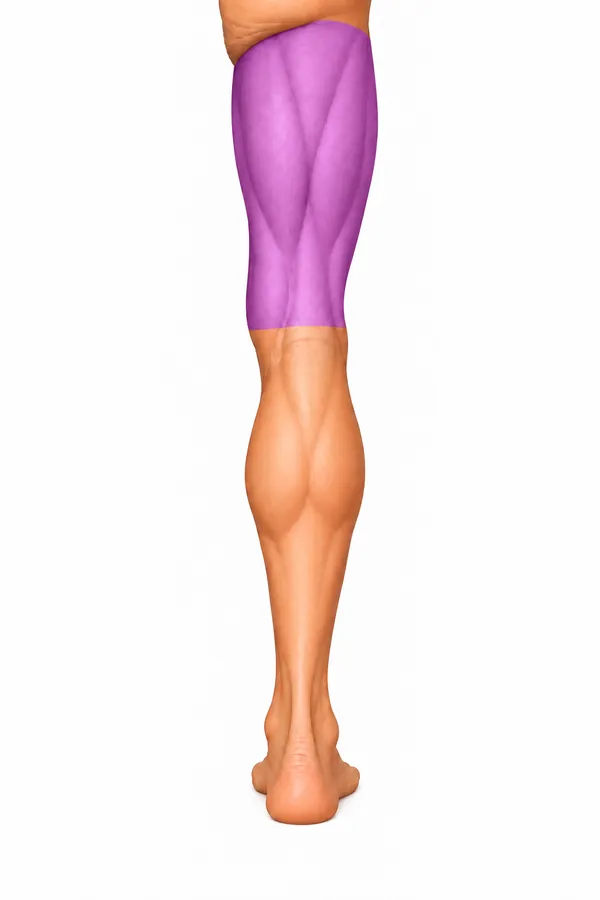
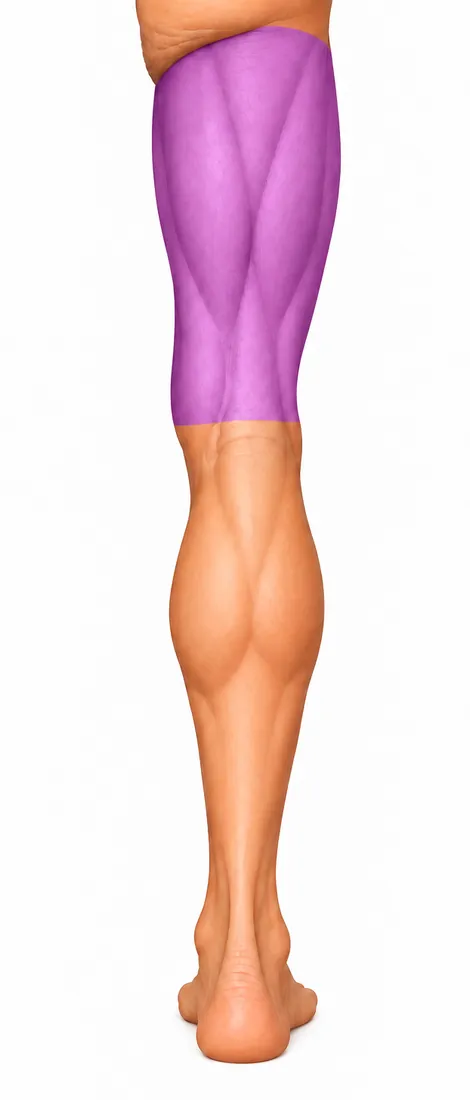
Foto's zo groot als er op een A4 past, één been per regio
Minder regio's op het briefje betekent nu grotere foto's: 410 px bij een of
twee regio's, aflopend tot 150 px bij zeven. Bij "beide zijden" staat er nog
een been in plaats van twee, wat de helft aan breedte scheelt. De foto's zijn
opnieuw uit het origineel gesneden met een gezamenlijk kader, alleen wit eraf.

Claude-Session: https://claude.ai/code/session_01AjzG6AeSBvcCLUkQ1rJV1h

Changed region(s): [[0.2681, 0.0, 0.7447, 0.9956], [0.4766, 0.0311, 0.5064, 0.0622]]

diff --git a/emla.html b/emla.html
@@ -231,7 +231,7 @@
     page-break-inside: avoid;
   }
   .em-bladregio svg.em-tek { height: 64px; width: auto; max-width: 74px; flex: none; }
-  .em-bladregio .em-tekfoto { height: 142px; width: auto; flex: none; }
+  .em-bladregio .em-tekfoto { height: var(--fotohoog, 142px); width: auto; flex: none; }
   .em-bladregio svg.em-tek.em-breed { height: 42px; max-width: 84px; }
 
   /* eigen foto op het briefje, met het vlak eroverheen */
@@ -361,7 +361,7 @@
     .em-bladlijst { font-size: 11.5px; line-height: 1.45; }
     .em-bron { font-size: 10px; }
     .em-bladregio svg.em-tek { height: 54px; }
-    .em-bladregio .em-tekfoto { height: 130px; }
+    .em-bladregio .em-tekfoto { height: var(--fotohoog, 130px); }
     .em-bladregio svg.em-tek.em-breed { height: 36px; }
     .em-bfoto { width: 66px; }
     .em-bladlijst li { margin-bottom: 1px; }
@@ -652,11 +652,11 @@
 
     if (regio.foto) {
       if (!regio.fotoKant) return fotoBeeld(regio, false, '');
+      // Eén been per regio, niet twee naast elkaar: dat geeft de foto de volle
+      // breedte en daarmee de dubbele grootte. Welke kant het is staat in het
+      // label ernaast; bij "beide" staat het been zoals het is aangeleverd.
       var k = kant || 'LR';
-      if (k === 'LR') {
-        return '<span class="em-tweefoto">' +
-          fotoBeeld(regio, false, 'rechts') + fotoBeeld(regio, true, 'links') + '</span>';
-      }
+      if (k === 'LR') return fotoBeeld(regio, false, 'beide zijden');
       // spiegelen zodra de gevraagde kant niet de kant van de foto is
       var spiegel = (k !== regio.fotoKant);
       return fotoBeeld(regio, spiegel, k === 'L' ? 'links' : 'rechts');
@@ -849,8 +849,19 @@
       esc(EMLA.vooraf) + '</div>';
   }
 
+  // Hoe meer regio's op het briefje, hoe kleiner de foto's moeten staan om op
+  // één A4 te passen. Bij twee regio's is er ruimte zat, bij zeven niet. Deze
+  // trap is nagemeten; test_emla.py bewaakt de ondergrens.
+  function fotoHoogte(aantal) {
+    if (aantal <= 2) return 410;
+    if (aantal <= 4) return 260;
+    if (aantal <= 6) return 165;
+    return 150;
+  }
+
   function tekenBlad() {
     var lijst = gekozen();
+    elBlad.style.setProperty('--fotohoog', fotoHoogte(lijst.length) + 'px');
 
     if (!lijst.length) {
       elBlad.innerHTML = '<div class="em-leeg">Kies hierboven één of meer regio\'s. ' +

diff --git a/sw.js b/sw.js
@@ -4,7 +4,7 @@
 // die je hebt gezien.
 //
 // Let op bij wijzigen: verhoog CACHE_VERSIE, anders blijven oude bestanden hangen.
-const CACHE_VERSIE = 'krn-v79';
+const CACHE_VERSIE = 'krn-v80';
 
 const APP_BESTANDEN = [
   './',

diff --git a/tests/test_emla.py b/tests/test_emla.py
@@ -84,8 +84,8 @@ with sync_playwright() as p:
         check(naam + ": toont de aangeleverde foto, niet de tekening",
               pg.locator("#emBlad .em-bladregio img.em-tekfoto").count() > 0
               and pg.locator("#emBlad .em-bladregio svg.em-tek").count() == 0)
-        check(naam + ": beide zijden geeft twee beelden, één gespiegeld",
-              spiegelstand() == [False, True], "| " + str(spiegelstand()))
+        check(naam + ": beide zijden geeft één beeld, ongespiegeld",
+              spiegelstand() == [False], "| " + str(spiegelstand()))
         for knop, verwacht in (("Rechts", [False]), ("Links", [True])):
             pg.locator(".em-kaart", has_text=naam).first.locator(
                 ".em-kant", has_text=knop).click()
@@ -199,6 +199,26 @@ with sync_playwright() as p:
     pg.wait_for_timeout(200)
     hoogte = pg.evaluate("document.body.scrollHeight")
     check("zeven regio's én een tijd passen op één A4", hoogte <= 1032, "| " + str(hoogte) + " px")
+
+    # De foto's worden groter naarmate er minder regio's op het briefje staan.
+    # Elk aantal moet op één A4 blijven passen; dat wordt hier allemaal gemeten.
+    for aantal in (1, 2, 3, 4, 5, 6):
+        pg2 = b.new_context(viewport={"width": 703, "height": 1032}).new_page()
+        pg2.goto(URL)
+        pg2.wait_for_timeout(450)
+        for naam in ALLE[:aantal]:
+            pg2.locator(".em-kaart", has_text=naam).first.click()
+            pg2.wait_for_timeout(70)
+        pg2.fill("#emTijd", "14:30")
+        pg2.wait_for_timeout(350)
+        pg2.emulate_media(media="print")
+        pg2.wait_for_timeout(200)
+        h = pg2.evaluate("document.body.scrollHeight")
+        fh = pg2.evaluate("""() => getComputedStyle(document.getElementById('emBlad'))
+            .getPropertyValue('--fotohoog').trim()""")
+        check(str(aantal) + " regio's passen op één A4 (foto " + fh + ")", h <= 1032,
+              "| " + str(h) + " px")
+        pg2.close()
     check("app-onderdelen staan niet op papier",
           not pg.locator(".topbar").is_visible()
           and not pg.locator("#emRaster").is_visible()
